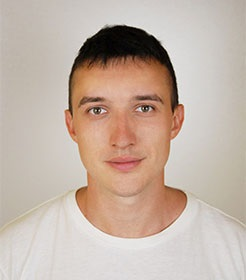
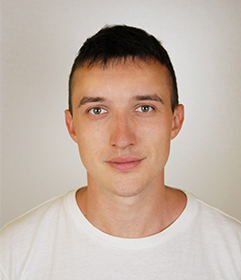
animation

diff --git a/index.html b/index.html
@@ -4,7 +4,6 @@
 		<title>Andrian Krysak Portfolio</title>
 		<meta charset="utf-8" />
 		<meta name="viewport" content="width=device-width, initial-scale=1" />
-		
 		<link rel="stylesheet" href="assets/css/main.css" />
 	</head>
 	<body>
@@ -30,7 +29,7 @@
 
 						
 						<div class="row">
-							<div class="first_line">
+							<div class="first_line animation-element fadeIn">
 								<div class="c1">
 									Andrian Krysak<br><span class="minor">Available for the freelance hire</span>
 								</div>
@@ -44,9 +43,9 @@
 							</div>
 						</div>
 
-						<div class="row second_line">
+						<div class="row second_line animation-element fadeIn">
 							<div class="tile one">
-								<img src="images/photo.png">
+								<img src="images/photo.png" class="animation-element fadeIn">
 							</div>
 							<div class="tile two">Creativity<br>HTML<br>CSS<br>Javascript/JQUERY<br>Bootstrap<br>Photoshop<br>Wordpress<br>PHP/MySQL<br>English
 							</div>
@@ -59,7 +58,7 @@
 
 				<!-- Items -->
 					<section class="main items">
-						<article class="item">
+						<article class="item animation-element fadeIn moveLeft">
 							<header>
 								<a href="#"><img src="images/pic01.jpg" alt="" /></a>
 								<h3>Feugiat et faucibus</h3>
@@ -69,7 +68,7 @@
 								<li><a href="#" class="button">More</a></li>
 							</ul>
 						</article>
-						<article class="item">
+						<article class="item animation-element fadeIn moveRight">
 							<header>
 								<a href="#"><img src="images/pic02.jpg" alt="" /></a>
 								<h3>Blandit adipiscing</h3>
@@ -79,7 +78,7 @@
 								<li><a href="#" class="button">More</a></li>
 							</ul>
 						</article>
-						<article class="item">
+						<article class="item animation-element fadeIn moveLeft">
 							<header>
 								<a href="#"><img src="images/pic03.jpg" alt="" /></a>
 								<h3>Lorem massa nulla</h3>
@@ -89,12 +88,12 @@
 								<li><a href="#" class="button">More</a></li>
 							</ul>
 						</article>
-						<article class="item">
+						<article class="item animation-element fadeIn moveRight">
 							<header>
 								<a href="https://andrik746.github.io/hcntp-git/" target="_blank"><img src="images/pic04.jpg" alt="" /></a>
 								<h3>Landing Page</h3>
 							</header>
-							<p>Simple minimalistic landing page created for a land surveting organization</p>
+							<p>Simple minimalistic landing page created for a land surveying organization</p>
 							<ul class="actions">
 								<li><a href="https://andrik746.github.io/hcntp-git/" target="_blank" class="button">More</a></li>
 							</ul>

diff --git a/assets/css/main.css b/assets/css/main.css
@@ -1515,7 +1515,7 @@
 		float:left;
 	}
 	.tile.one img {
-		margin-top: 28px;
+		margin-top: 33px;
 	}
 	.tile.one {
 		margin-right: 5px;
@@ -1705,3 +1705,62 @@
 				}
 
 		}
+
+
+
+/***************************Animation************************/
+
+.animation-element {
+	opacity: 0;
+	position: relative;
+}
+.fadeIn {
+	opacity: 0;
+	-moz-transition: all 0.5s linear;
+    -webkit-transition: all 0.5s linear;
+    -o-transition: all 0.5s linear;
+    transition: all 0.5s linear;
+}
+.fadeIn.animated {
+	opacity: 1;
+}
+.moveLeft {
+	-moz-transition: all 0.5s linear;
+    -webkit-transition: all 0.5s linear;
+    -o-transition: all 0.5s linear;
+    transition: all 0.5s linear;
+
+    -moz-transform: translate3d(-100px, 0px, 0px);
+    -webkit-transform: translate3d(-100px, 0px, 0px);
+    -o-transform: translate(-100px, 0px);
+    -ms-transform: translate(-100px, 0px);
+    transform: translate3d(-100px, 0px, 0px);
+}
+.moveLeft.animated {
+	-moz-transform: translate3d(0px, 0px, 0px);
+    -webkit-transform: translate3d(0px, 0px, 0px);
+    -o-transform: translate(0px, 0px);
+    -ms-transform: translate(0px, 0px);
+    transform: translate3d(0px, 0px, 0px);
+}
+.moveRight {
+	-moz-transition: all 0.5s linear;
+    -webkit-transition: all 0.5s linear;
+    -o-transition: all 0.5s linear;
+    transition: all 0.5s linear;
+
+    -moz-transform: translate3d(100px, 0px, 0px);
+    -webkit-transform: translate3d(100px, 0px, 0px);
+    -o-transform: translate(100px, 0px);
+    -ms-transform: translate(100px, 0px);
+    transform: translate3d(100px, 0px, 0px);
+}
+.moveRight.animated {
+	-moz-transform: translate3d(0px, 0px, 0px);
+    -webkit-transform: translate3d(0px, 0px, 0px);
+    -o-transform: translate(0px, 0px);
+    -ms-transform: translate(0px, 0px);
+    transform: translate3d(0px, 0px, 0px);
+}
+
+/***************************Animation End************************/

diff --git a/assets/js/main.js b/assets/js/main.js
@@ -1,8 +1,3 @@
-/*
-	Epilogue by TEMPLATED
-	templated.co @templatedco
-	Released for free under the Creative Commons Attribution 3.0 license (templated.co/license)
-*/
 
 (function($) {
 
@@ -59,3 +54,37 @@
 	});
 
 })(jQuery);
+
+
+
+
+////////////////////////SCROLL ANIMATION////////////////////////
+
+var $animation_elements = $('.animation-element');
+var $window = $(window);
+
+function check_if_in_view() {
+  var window_height = $window.height();
+  var window_top_position = $window.scrollTop();
+  var window_bottom_position = (window_top_position + window_height);
+
+  $.each($animation_elements, function() {
+    var $element = $(this);
+    var element_height = $element.outerHeight();
+    var element_top_position = $element.offset().top;
+    var element_bottom_position = (element_top_position + element_height);
+
+    //check to see if this current container is within viewport
+    if ((element_bottom_position >= window_top_position) &&
+      (element_top_position <= window_bottom_position)) {
+      $element.addClass('animated');
+    } else {
+      $element.removeClass('animated');
+    }
+  });
+}
+
+$window.on('scroll resize', check_if_in_view);
+$window.trigger('scroll');
+
+////////////////////////SCROLL ANIMATION END ///////////////////////
